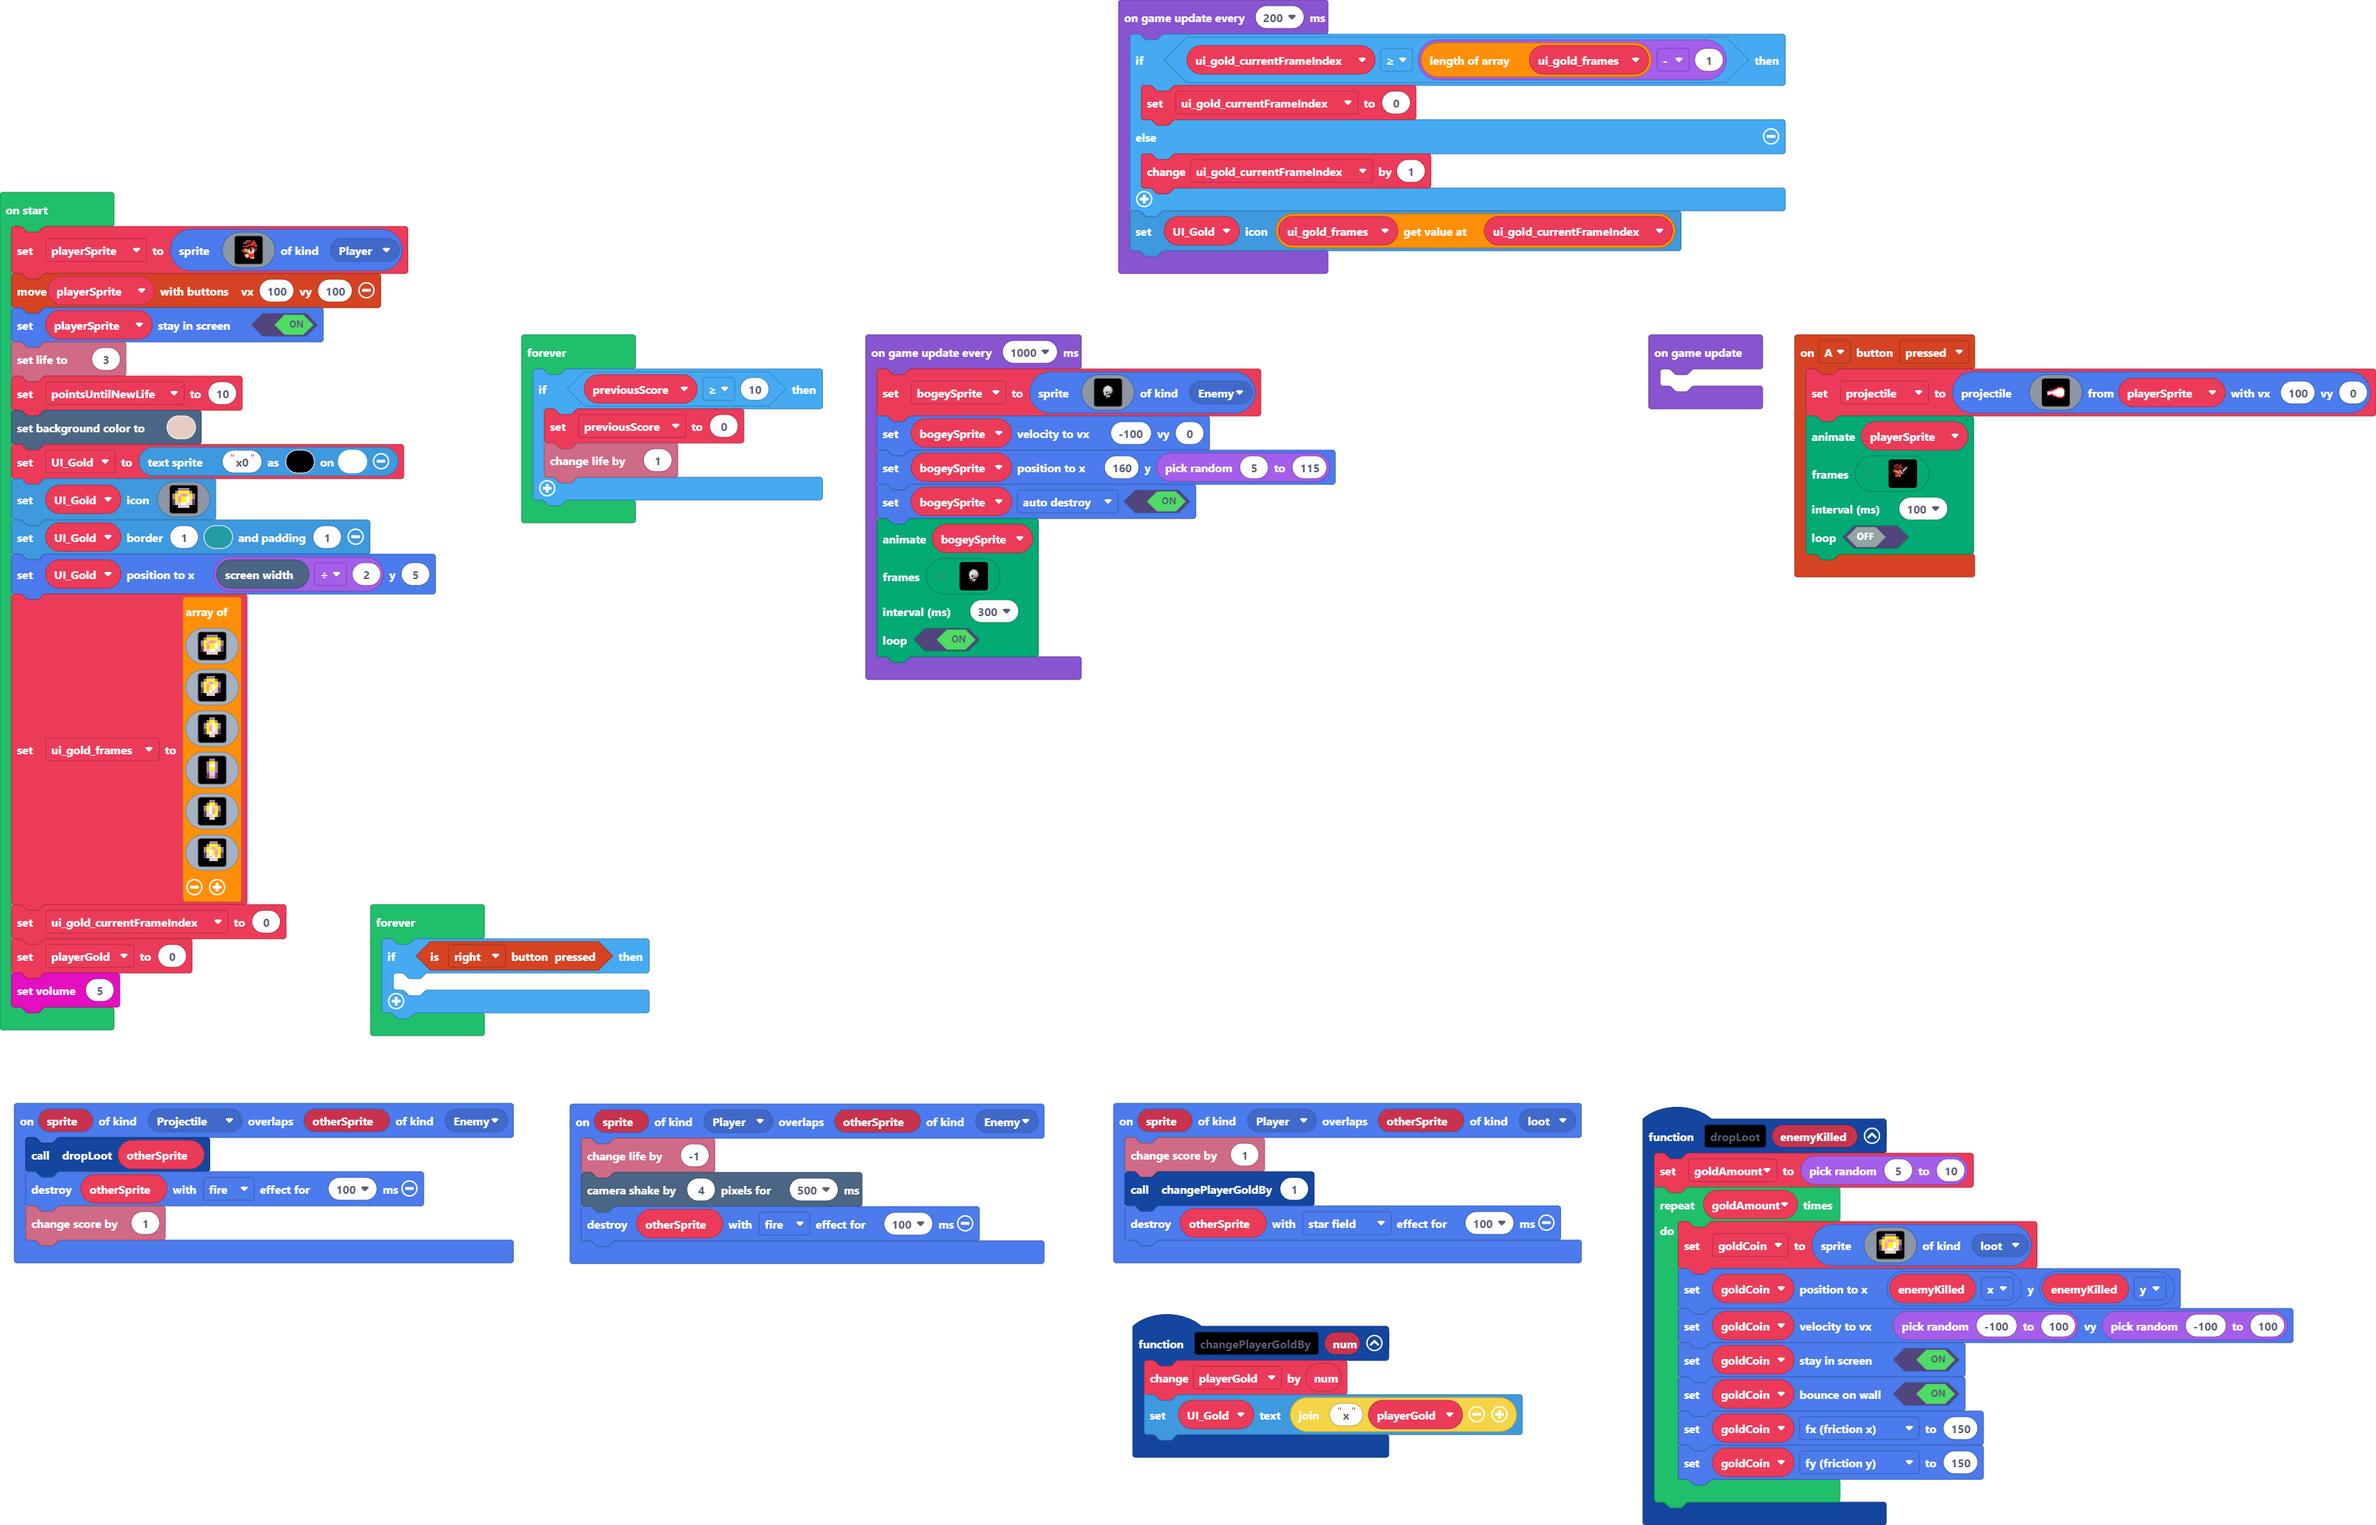
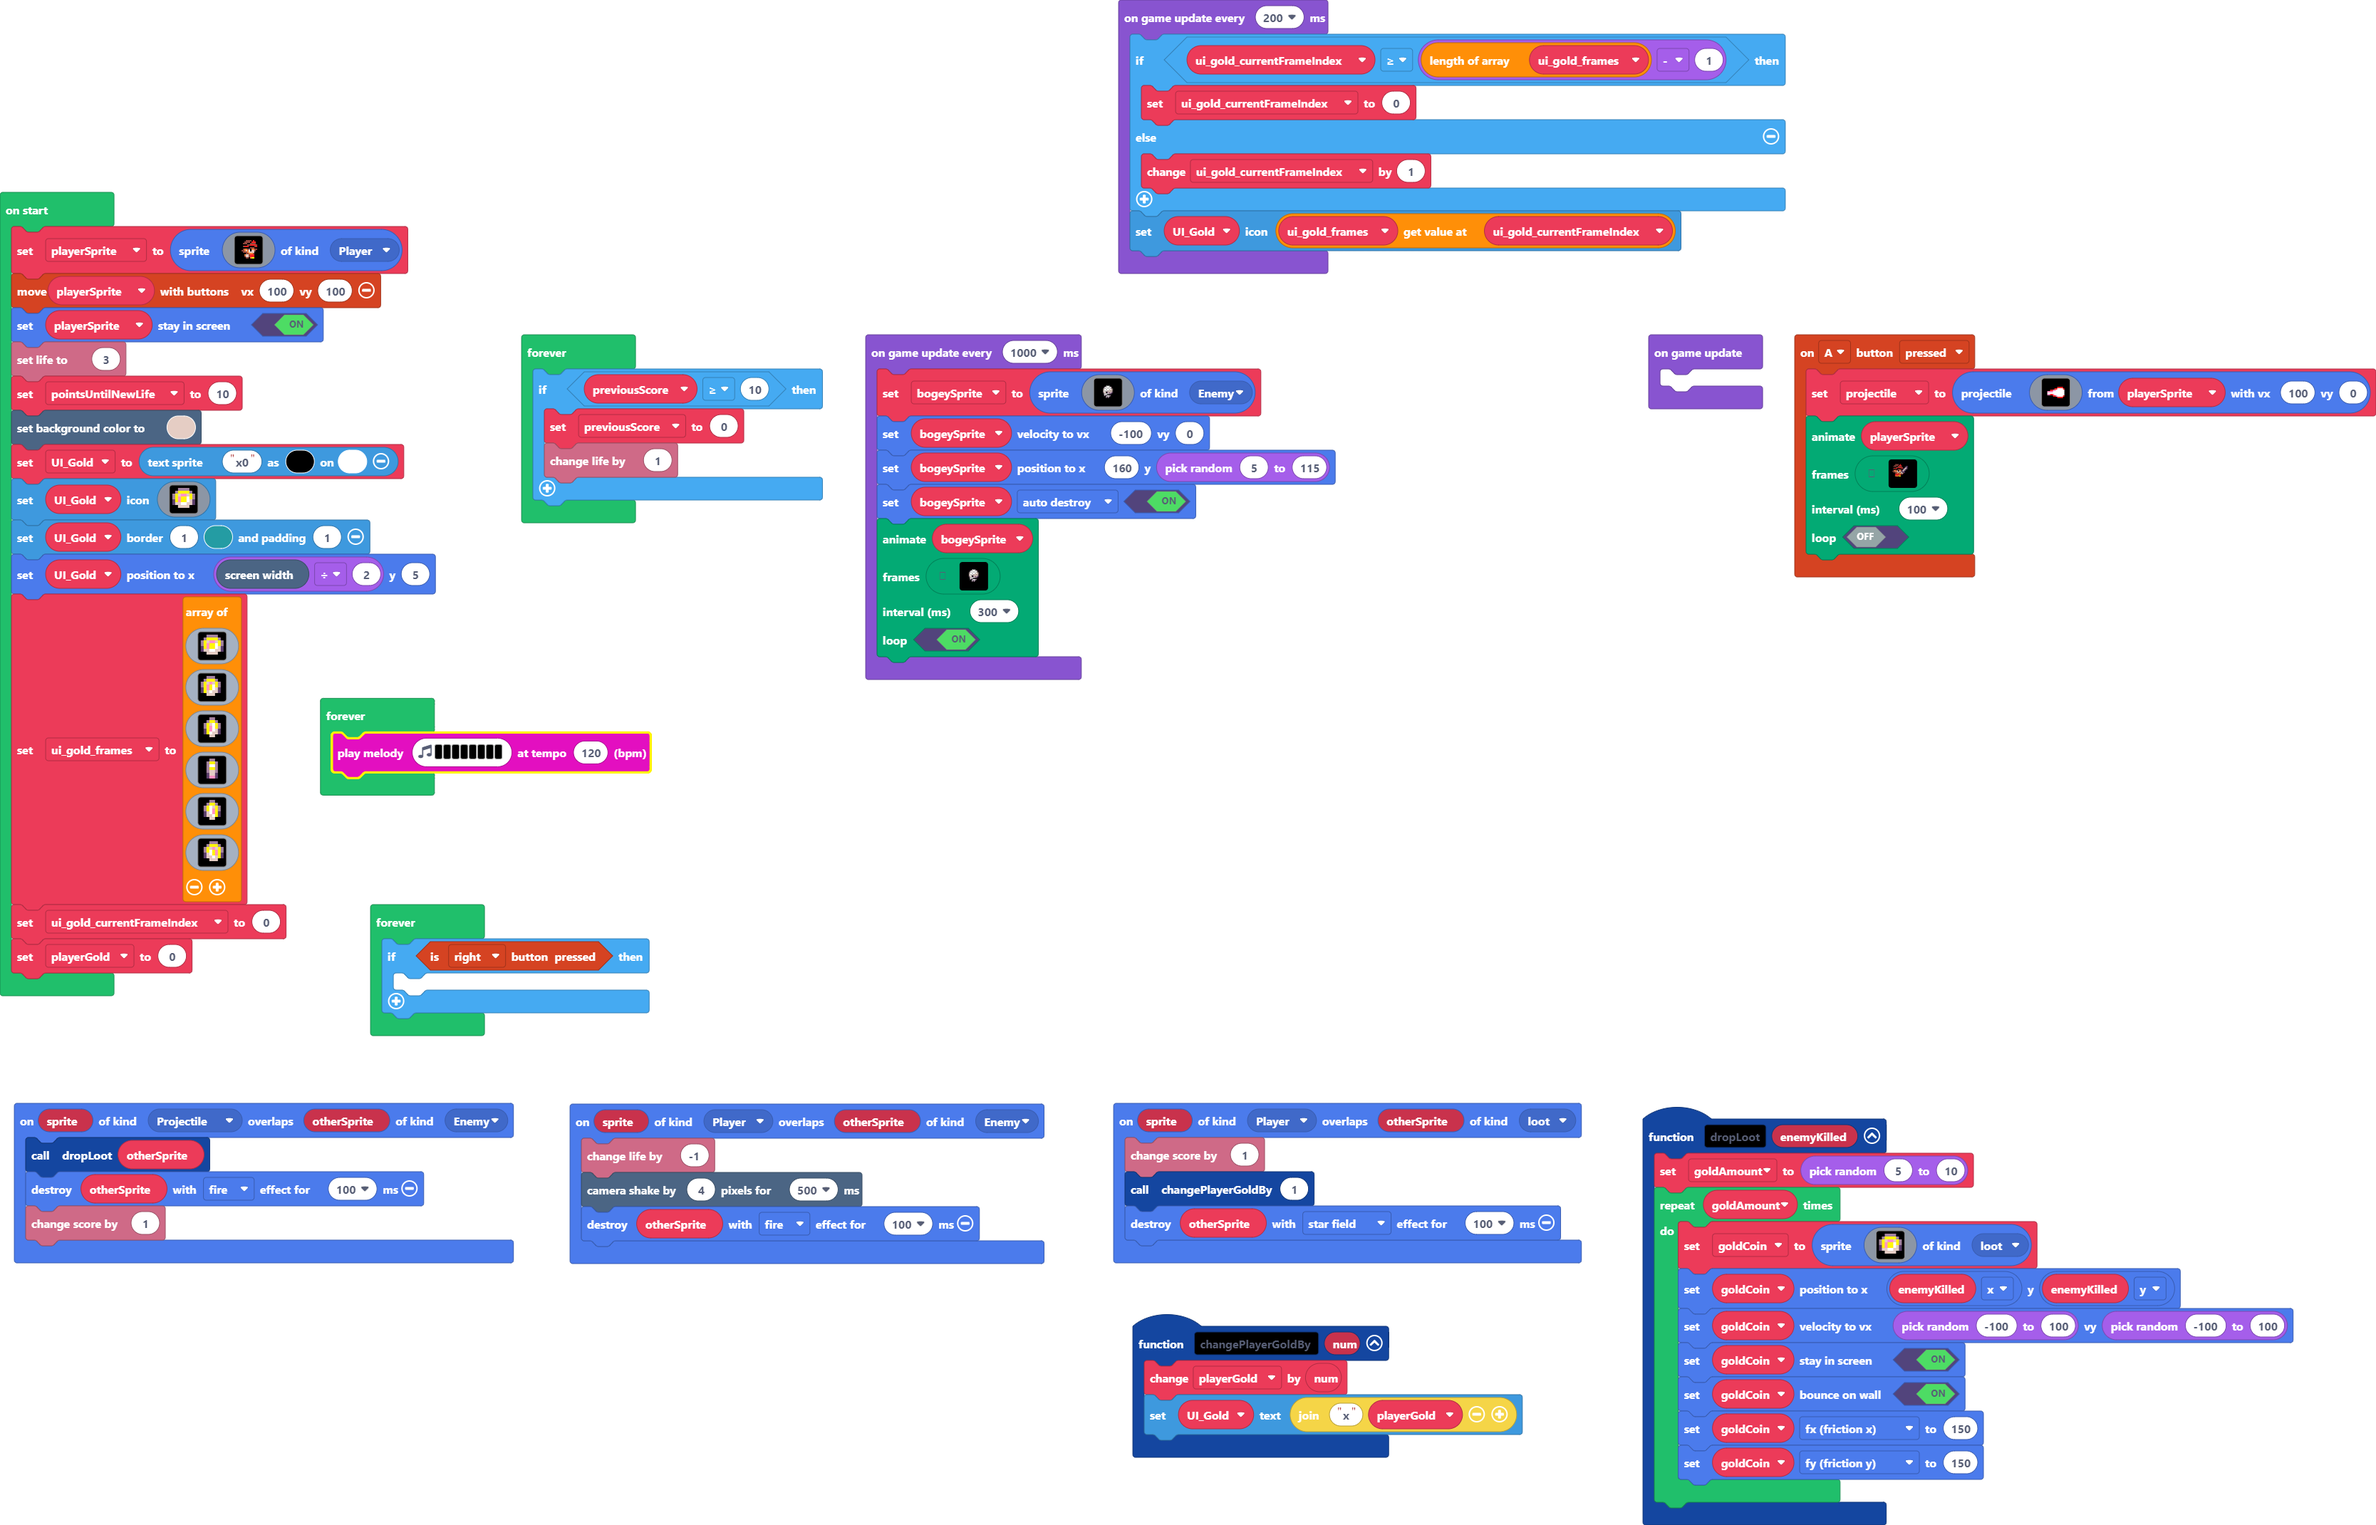
Update main.blocks, main.ts

Changed region(s): [[0.1247, 0.4316, 0.2807, 0.5241], [0.0, 0.6165, 0.0624, 0.6782]]

diff --git a/main.ts b/main.ts
@@ -258,7 +258,6 @@ img`
 ]
 let ui_gold_currentFrameIndex = 0
 playerGold = 0
-music.setVolume(5)
 game.onUpdate(function () {
 	
 })
@@ -354,6 +353,9 @@ forever(function () {
         previousScore = 0
         info.changeLifeBy(1)
     }
+})
+forever(function () {
+    music.playMelody("A G F G F E D C ", 120)
 })
 forever(function () {
     if (controller.right.isPressed()) {
